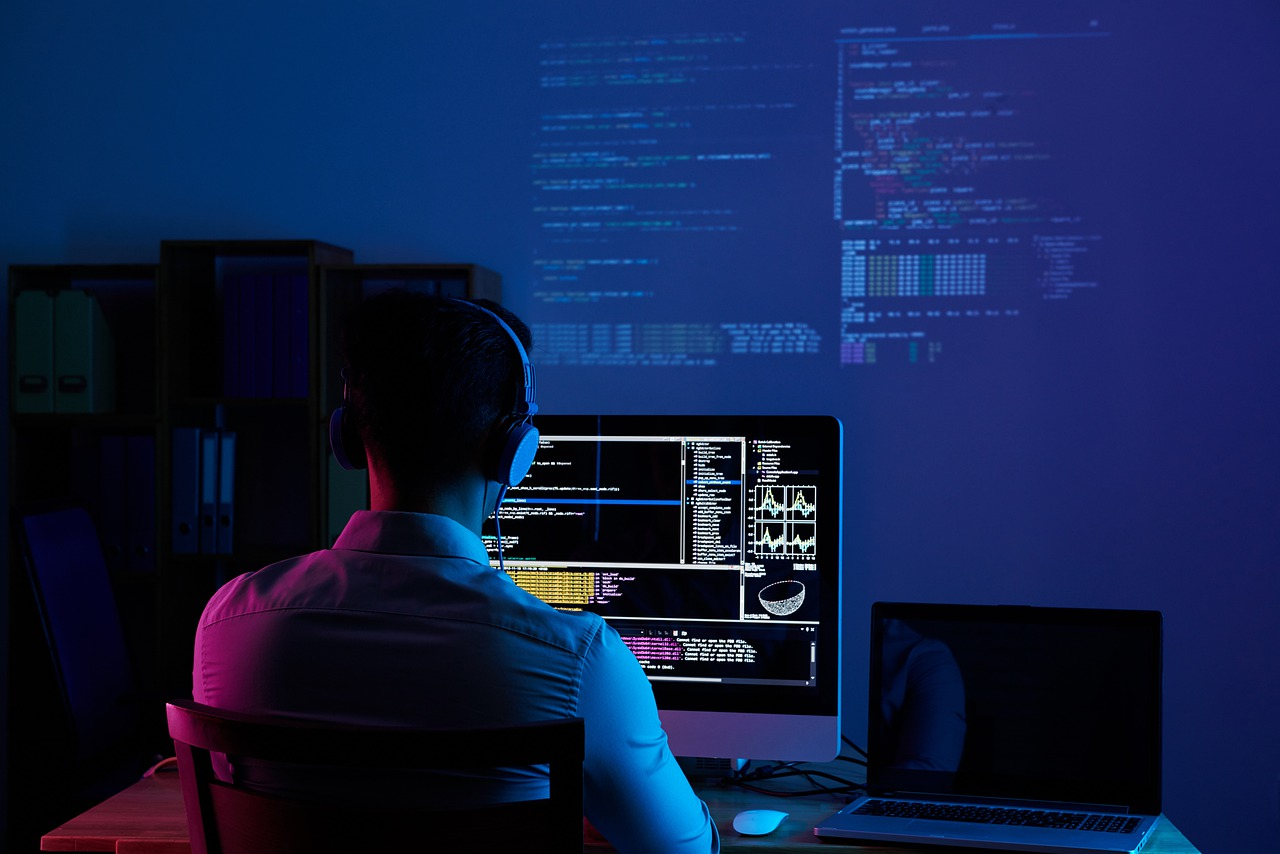
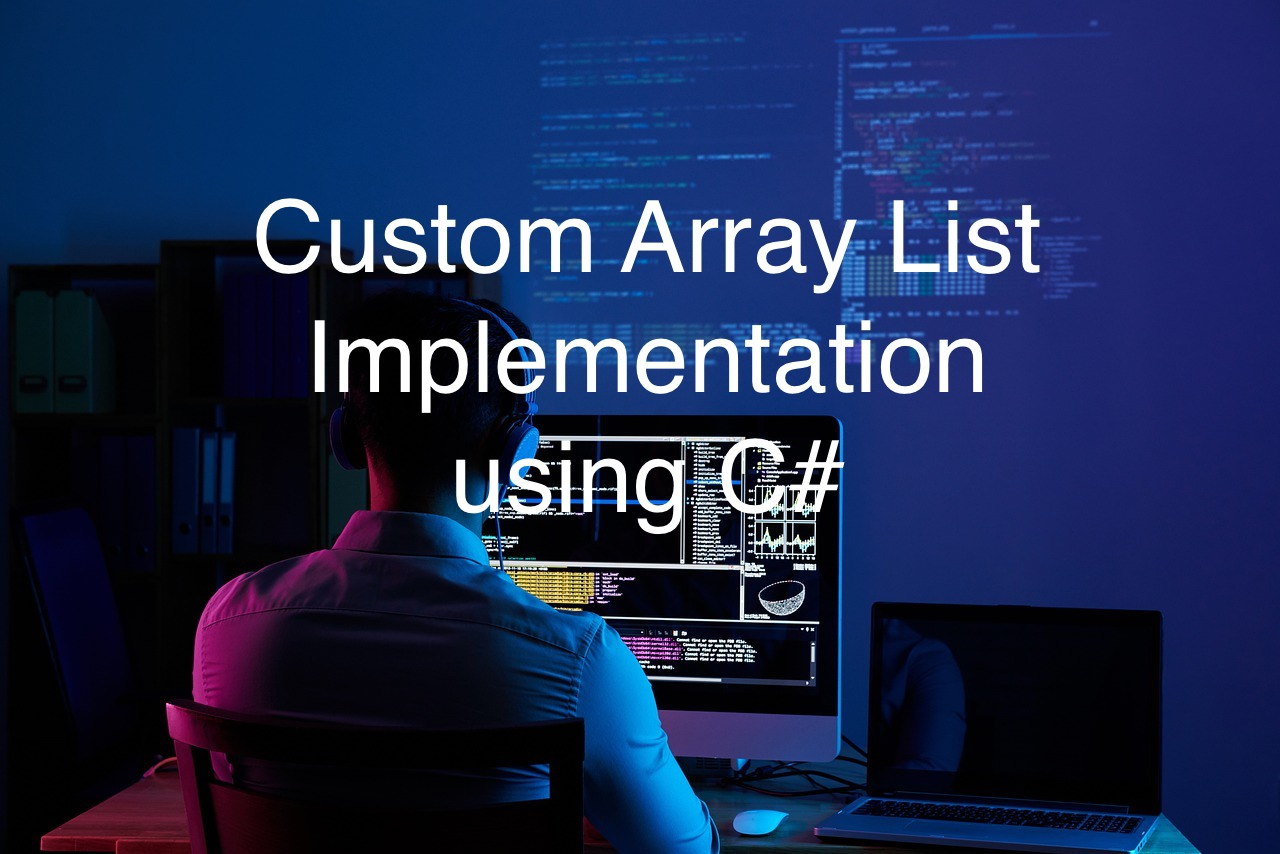
add custom array list blog

diff --git a/posts/draft.md b/posts/draft.md
@@ -1,10 +1,18 @@
 ---
-title: '_Draft'
-date: 'August 14, 2022'
-excerpt: 'Title?'
+title: 'Custom Array List'
+date: 'September 5, 2022'
+excerpt: 'Custom Array List Implementation'
 cover_image: '/images/posts/img6.jpg'
 ---
 
-# Hello
+# Custom Array List
 
-This is sample paragraph
+<b>Arrays</b> are a consecutive block of memory set at a certain length which stores information.
+
+Unlike arrays, <b>List</b> is also a collection of consecutively arranged data, but on a more abstract level. List allows adding/removing elements at different positions (beginning, middle or end).
+
+An example of such Abstract Data Type (ADT) in C# is the `System.Collections.IList` interface. But in this blog, we'll implement our own array based List. It's achieved by using <b>array</b> with <b>dynamic resizing</b>. In this custom implementation, our class will be able to hold any data type `<T>` through the concept of Generics
+
+## Creating the class `ArrayList<T>`
+
+First, we need to give a name to our class, which will be `ArrayList<T>`
